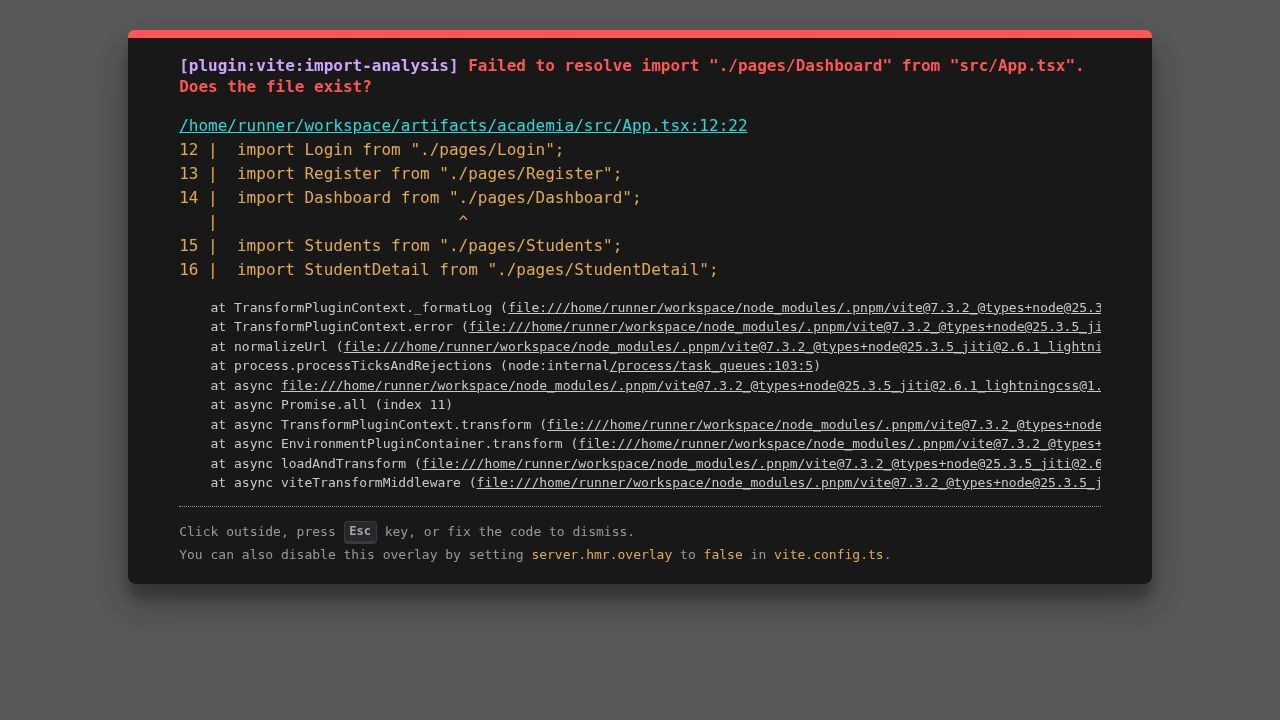
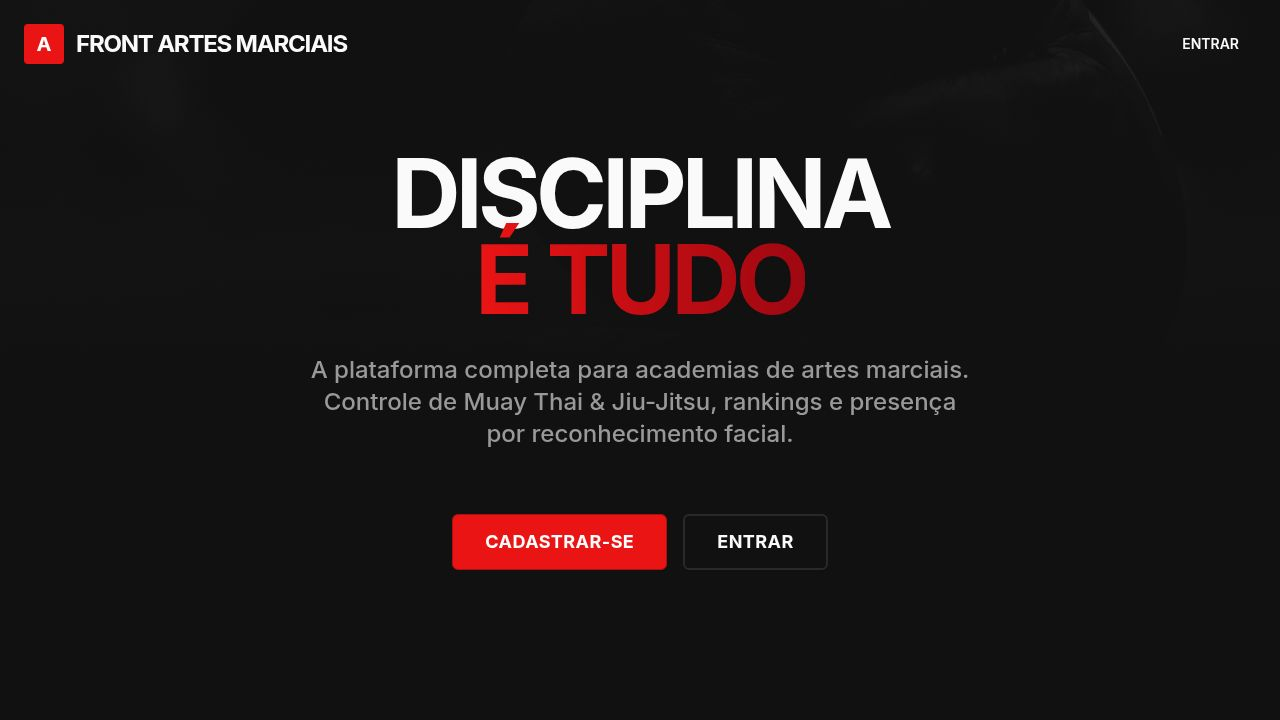
Update student profile to rename Mongkol to Prajied and restrict color changes to masters
Renames "Mongkol" to "Prajied" in the student detail view and restricts the ability to change the Prajied color to users with "teacher" or "admin" roles.

Replit-Commit-Author: Agent
Replit-Commit-Session-Id: 3b7a7603-ac73-456a-9170-f542988b7967
Replit-Commit-Checkpoint-Type: full_checkpoint
Replit-Commit-Event-Id: 38acf079-3221-441f-8ce9-0a5cfe61c072
Replit-Commit-Screenshot-Url: https://storage.googleapis.com/screenshot-production-us-central1/46fe9a00-f6a5-478e-b27f-74c9f4e614c7/3b7a7603-ac73-456a-9170-f542988b7967/2JwgvHI
Replit-Helium-Checkpoint-Created: true

diff --git a/artifacts/academia/src/pages/StudentDetail.tsx b/artifacts/academia/src/pages/StudentDetail.tsx
@@ -11,6 +11,7 @@ import { ArrowLeft, Camera, CheckCircle, XCircle, Shield } from "lucide-react";
 import { Button } from "@/components/ui/button";
 import { Select, SelectContent, SelectItem, SelectTrigger, SelectValue } from "@/components/ui/select";
 import { useToast } from "@/hooks/use-toast";
+import { useAuth } from "../contexts/AuthContext";
 
 const THAI_GRADES = ["Iniciante", "Intermediario", "Avancado", "Instrutor", "Kru"];
 const THAI_COLORS = [
@@ -53,6 +54,8 @@ export default function StudentDetail() {
   const [activeModality, setActiveModality] = useState<"thai" | "jiu">("thai");
   const { toast } = useToast();
   const queryClient = useQueryClient();
+  const { user } = useAuth();
+  const isMaster = user?.role === "teacher" || user?.role === "admin";
 
   const { data: student, isLoading } = useGetStudent(studentId, {
     query: { enabled: !!studentId, queryKey: getGetStudentQueryKey(studentId) }
@@ -175,9 +178,18 @@ export default function StudentDetail() {
                     </Select>
                   </div>
                   <div>
-                    <label className="text-xs text-muted-foreground mb-1 block">Cor do Mongkol</label>
-                    <Select value={student.thaiGradeColor ?? ""} onValueChange={(v) => handleGradeUpdate("thaiGradeColor", v)}>
-                      <SelectTrigger data-testid="select-thai-color"><SelectValue placeholder="Cor..." /></SelectTrigger>
+                    <label className="text-xs text-muted-foreground mb-1 block">
+                      Cor do Prajied
+                      {!isMaster && <span className="ml-1 text-[10px] text-primary/70">(somente mestre)</span>}
+                    </label>
+                    <Select
+                      value={student.thaiGradeColor ?? ""}
+                      onValueChange={(v) => handleGradeUpdate("thaiGradeColor", v)}
+                      disabled={!isMaster}
+                    >
+                      <SelectTrigger data-testid="select-thai-color" disabled={!isMaster}>
+                        <SelectValue placeholder="Cor..." />
+                      </SelectTrigger>
                       <SelectContent>
                         {THAI_COLORS.map(c => <SelectItem key={c.value} value={c.value}>{c.label}</SelectItem>)}
                       </SelectContent>